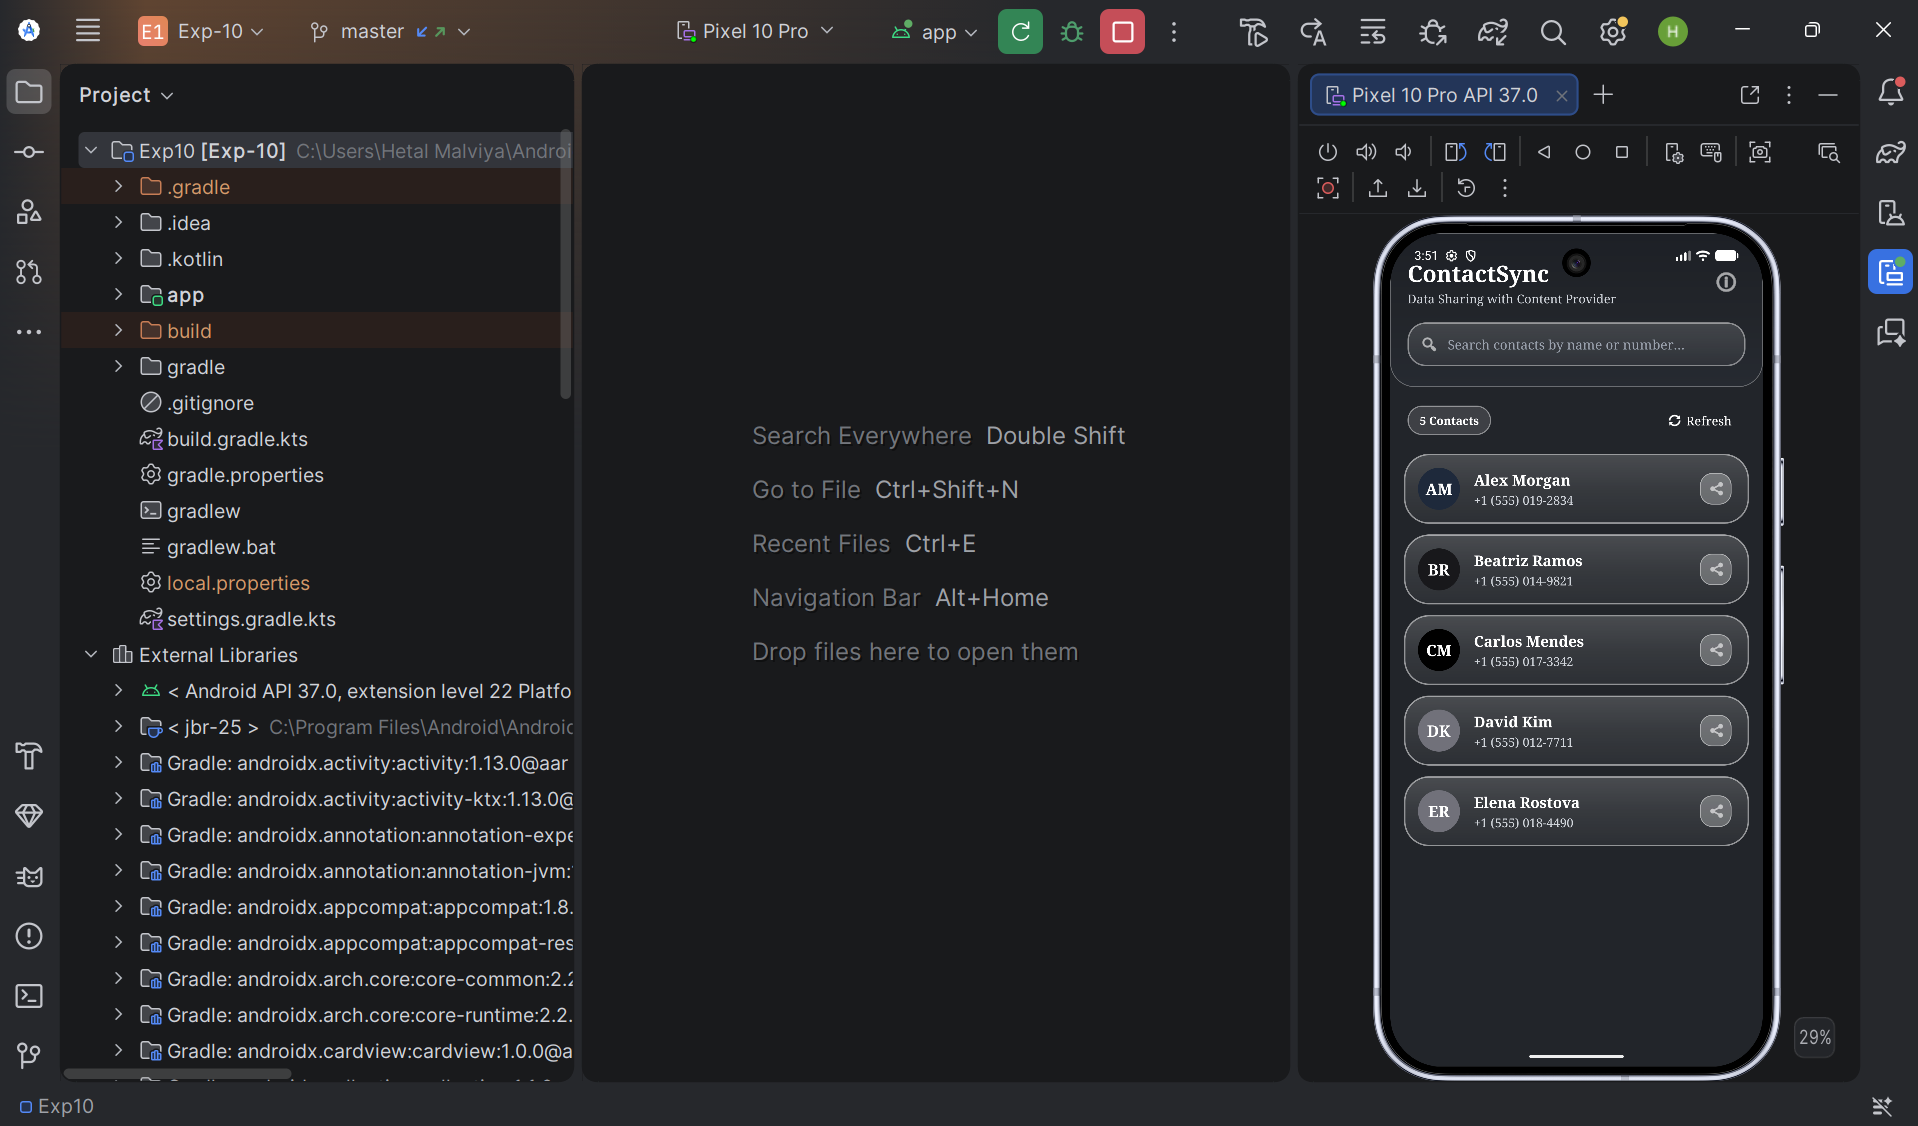
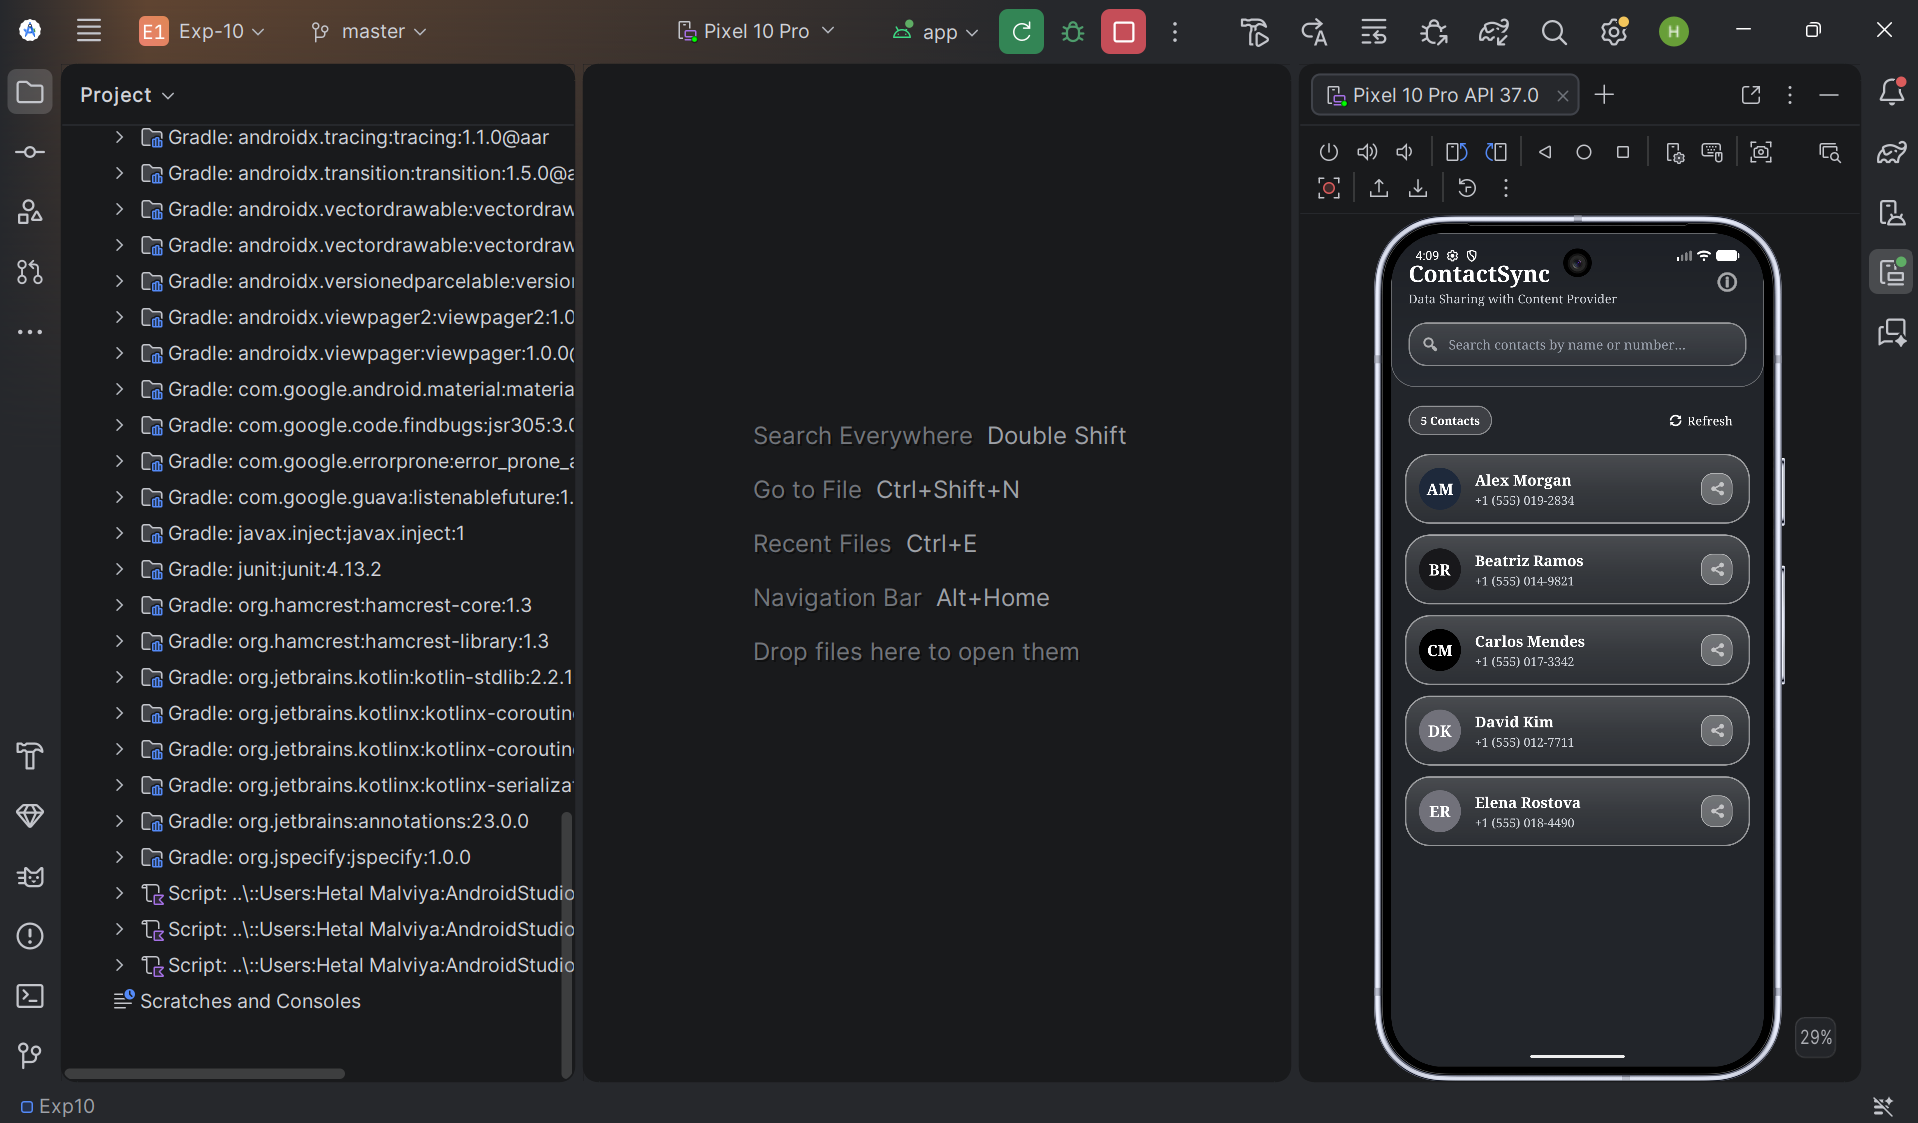
Add project README with folder structure, Kotlin source code, and output screenshots

diff --git a/README.md b/README.md
@@ -25,7 +25,7 @@ Exp10/
 │   │   ├── java/com/example/exp_10/
 │   │   │   ├── Contact.kt                         # Kotlin Data Model
 │   │   │   ├── ContactAdapter.kt                  # Kotlin RecyclerView Adapter
-│   │   │   ├── MainActivity.java                  # Kotlin Dashboard, ContentResolver & ContentObserver
+│   │   │   ├── MainActivity.kt                    # Kotlin Dashboard, ContentResolver & ContentObserver
 │   │   │   ├── ContactDetailActivity.kt           # Kotlin Details Activity & Sharing Intent
 │   │   │   └── ContentProviderInfoActivity.kt      # Kotlin Educational Guide Screen
 │   │   ├── res/
